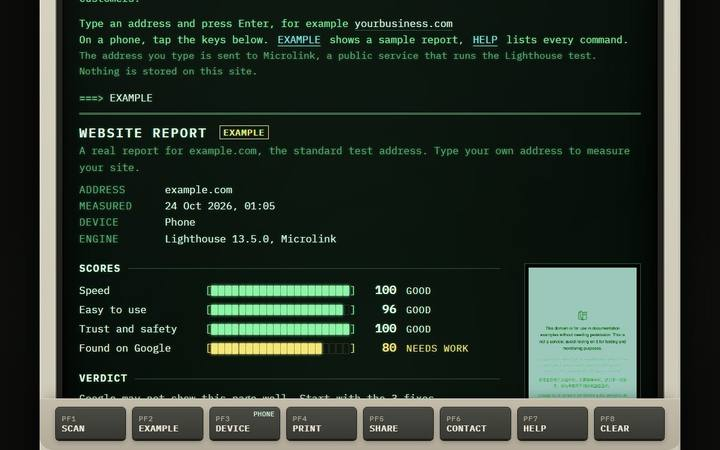
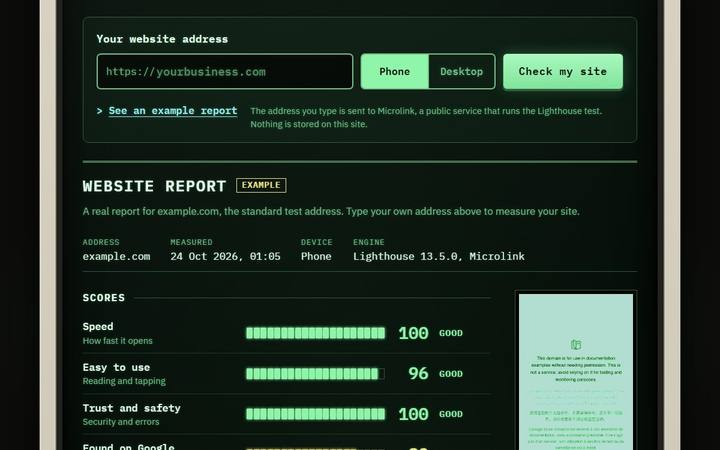
Font page: deeper old-machine look, one name box, order and examples buttons, stepped studio; refresh compressed covers

Changed region(s): [[0.0306, 0.0, 0.9472, 1.0]]

diff --git a/font/index.html b/font/index.html
@@ -163,49 +163,44 @@ h1 span{color:var(--muted)}
 .fileo a:hover{color:var(--ph);border-bottom-color:var(--ph)}
 .hnote{font:500 12px/1.5 var(--sys);letter-spacing:.06em;text-transform:uppercase;color:var(--muted);margin:22px 0 0}
 
-/* control deck */
-.deck{display:flex;flex-wrap:wrap;align-items:flex-end;gap:18px 26px;margin-top:20px;padding-top:18px;border-top:1px solid rgba(0,0,0,.16);box-shadow:inset 0 1px 0 rgba(255,255,255,.45)}
-.eng,.namebox label{display:block;font:400 10px/1 var(--pix);letter-spacing:.05em;text-transform:uppercase;color:var(--case-mute);text-shadow:0 1px 0 rgba(255,255,255,.45);margin:0 0 9px;white-space:nowrap}
-.namebox{flex:1 1 250px;min-width:0}
-.namebox input{display:block;width:100%;min-height:54px;border:0;border-radius:6px;background:#111211;box-shadow:inset 0 2px 5px rgba(0,0,0,.9),0 0 0 1px #3c3b37,0 1px 0 1px rgba(255,255,255,.45);padding:2px 14px 0;font:400 32px/1 var(--led);letter-spacing:.03em;color:var(--ph);caret-color:var(--ph);outline:0}
-.namebox input::placeholder{color:var(--ph-faint)}
-.namebox input:focus-visible{box-shadow:inset 0 2px 5px rgba(0,0,0,.9),0 0 0 1px #3c3b37,0 0 0 3px #1b1a18}
-.tools{display:flex;flex-wrap:wrap;gap:18px 22px}
-.grp{flex:0 0 auto;min-width:0}
-.keys{display:flex;gap:9px;padding-bottom:5px}
-.key{position:relative;min-width:62px;height:52px;padding:0 12px;display:inline-flex;flex-direction:column;align-items:center;justify-content:center;gap:6px;border:0;border-radius:6px;
-  background:linear-gradient(180deg,#f0eee8,#dddbd4);color:var(--case-ink);font:600 11.5px/1 var(--sys);letter-spacing:.06em;text-transform:uppercase;
-  box-shadow:inset 0 1px 0 #fff,inset 0 -4px 0 rgba(0,0,0,.07),0 4px 0 #8d8b84,0 5px 1px rgba(0,0,0,.28),0 8px 10px -3px rgba(0,0,0,.35);transition:transform .07s,box-shadow .07s}
-.key:hover{background:linear-gradient(180deg,#f6f5f0,#e3e1da)}
-.key:active{transform:translateY(3px);box-shadow:inset 0 1px 0 #fff,inset 0 -2px 0 rgba(0,0,0,.07),0 1px 0 #8d8b84,0 2px 2px rgba(0,0,0,.3)}
-.key.dk{background:linear-gradient(180deg,#5b5a55,#47463f);color:#f0efe9;box-shadow:inset 0 1px 0 rgba(255,255,255,.2),inset 0 -4px 0 rgba(0,0,0,.2),0 4px 0 #24231f,0 5px 1px rgba(0,0,0,.3),0 8px 10px -3px rgba(0,0,0,.4)}
-.key.dk:hover{background:linear-gradient(180deg,#64635d,#4f4e47)}
-.key.dk:active{box-shadow:inset 0 1px 0 rgba(255,255,255,.2),inset 0 -2px 0 rgba(0,0,0,.2),0 1px 0 #24231f,0 2px 2px rgba(0,0,0,.3)}
-.key svg{width:17px;height:17px}
-.nb i{display:block;width:24px;height:var(--h);background:currentColor;border-radius:2px}
-.nb::after{content:"";position:absolute;left:8px;top:7px;width:7px;height:3px;border-radius:1px;background:rgba(0,0,0,.14)}
-.nb[aria-checked=true]{transform:translateY(2px);background:linear-gradient(180deg,#e2e0d9,#cfcdc5);box-shadow:inset 0 1px 0 rgba(255,255,255,.7),inset 0 2px 5px rgba(0,0,0,.14),0 2px 0 #8d8b84,0 3px 2px rgba(0,0,0,.25)}
-.nb[aria-checked=true]::after{background:#1b1a18}
-.swr{display:flex;gap:8px;padding-bottom:2px}
-.sw{display:flex;flex-direction:column;align-items:center;gap:8px;border:0;background:transparent;padding:0 2px;min-width:58px;min-height:52px;color:var(--case-ink);font:600 11.5px/1 var(--sys);letter-spacing:.05em;text-transform:uppercase;white-space:nowrap}
-.sw .slot{position:relative;width:48px;height:26px;border-radius:13px;background:#1a1a18;box-shadow:inset 0 2px 4px rgba(0,0,0,.95),0 1px 0 rgba(255,255,255,.55)}
-.sw .slot::before{content:"";position:absolute;left:9px;top:10px;width:10px;height:6px;border-radius:1px;background:#3a3a36;transition:background .16s,box-shadow .16s}
-.sw .slot i{position:absolute;top:3px;left:3px;width:20px;height:20px;border-radius:50%;background:radial-gradient(circle at 36% 30%,#fdfcf8,#c4c2bb 62%,#8b8982);box-shadow:0 2px 3px rgba(0,0,0,.65);transition:transform .16s var(--ease)}
-.sw[aria-checked=true] .slot i{transform:translateX(22px)}
-.sw[aria-checked=true] .slot::before{background:var(--ph);box-shadow:0 0 7px rgba(232,230,218,.55)}
-.sw[disabled]{opacity:.45;cursor:not-allowed}
-.dialr{display:flex;align-items:center;gap:14px}
-.dial{position:relative;width:74px;height:74px;border-radius:50%;touch-action:none;cursor:grab;flex:0 0 auto}
-.dial.grab{cursor:grabbing}
-.dial .ticks{position:absolute;inset:0;border-radius:50%;background:repeating-conic-gradient(from -136deg,#3b3a36 0 2deg,transparent 2deg 27deg);
-  -webkit-mask:radial-gradient(circle,transparent 31px,#000 32px,#000 36px,transparent 37px),conic-gradient(from 135deg,transparent 0 90deg,#000 90deg);-webkit-mask-composite:source-in;
-  mask:radial-gradient(circle,transparent 31px,#000 32px,#000 36px,transparent 37px) intersect,conic-gradient(from 135deg,transparent 0 90deg,#000 90deg)}
-.dial::before{content:"";position:absolute;inset:10px;border-radius:50%;box-shadow:0 4px 0 #77756e,0 7px 10px rgba(0,0,0,.45)}
-.knob{position:absolute;inset:10px;border-radius:50%;transform:rotate(var(--a,0deg));transition:transform .08s;
-  background:radial-gradient(circle at 50% 50%,transparent 15px,rgba(0,0,0,.08) 16px,transparent 17px),repeating-conic-gradient(#d9d7d0 0 6deg,#b7b5ae 6deg 12deg);box-shadow:inset 0 1px 0 rgba(255,255,255,.8),inset 0 -2px 2px rgba(0,0,0,.2)}
-.knob::before{content:"";position:absolute;inset:7px;border-radius:50%;background:radial-gradient(circle at 42% 34%,#f6f5f0,#cfcdc6 60%,#aeaca5);box-shadow:inset 0 -1px 1px rgba(0,0,0,.25),0 1px 2px rgba(0,0,0,.25)}
-.knob i{position:absolute;left:50%;top:9px;width:4px;height:15px;margin-left:-2px;border-radius:2px;background:#1b1a18}
-.dv{display:block;font:400 28px/1 var(--led);color:var(--ph);background:#111211;padding:9px 12px 7px;border-radius:5px;box-shadow:inset 0 2px 4px rgba(0,0,0,.9),0 0 0 1px #3c3b37,0 1px 0 1px rgba(255,255,255,.45);min-width:92px;text-align:center;font-variant-numeric:tabular-nums}
+/* control deck: one name box, one pen slider, two buttons */
+.mach{margin-bottom:12px}
+.mach::before,.mach::after{content:"";position:absolute;bottom:10px;width:11px;height:11px;border-radius:50%;border:1px solid rgba(0,0,0,.35);background:linear-gradient(45deg,transparent 42%,rgba(0,0,0,.5) 43% 57%,transparent 58%),radial-gradient(circle at 40% 35%,#f1efe9,#a4a29a 75%);box-shadow:0 1px 0 rgba(255,255,255,.5)}
+.mach::before{left:9px}.mach::after{right:9px}
+.foot{position:absolute;bottom:-11px;width:12%;min-width:44px;height:11px;border-radius:0 0 6px 6px;background:linear-gradient(#2a2926,#121211);box-shadow:0 6px 10px -4px #000}
+.foot.l{left:7%}.foot.r{right:7%}
+.bezel{position:relative;padding-bottom:36px}
+.bezel::after{content:"HF-84";position:absolute;right:26px;bottom:11px;font:400 10px/1 var(--pix);letter-spacing:.08em;color:#55534d;text-shadow:0 1px 0 rgba(255,255,255,.5)}
+.bezel::before{content:"";position:absolute;left:26px;bottom:15px;width:min(220px,30%);height:3px;border-radius:2px;background:#9d9b93;box-shadow:inset 0 1px 1px rgba(0,0,0,.45),0 1px 0 rgba(255,255,255,.5)}
+.deck{display:grid;grid-template-columns:minmax(0,1fr) auto;grid-template-areas:"name cta" "pen hint";gap:18px 28px;align-items:end;margin-top:22px;padding-top:20px;border-top:1px solid rgba(0,0,0,.16);box-shadow:inset 0 1px 0 rgba(255,255,255,.45)}
+.namebox{grid-area:name;min-width:0}
+.namebox label{display:block;font:600 16px/1.2 var(--body);color:var(--case-ink);margin:0 0 9px}
+.namebox input{display:block;width:100%;min-height:64px;border:0;border-radius:8px;background:#111211;box-shadow:inset 0 3px 6px rgba(0,0,0,.9),0 0 0 1px #3c3b37,0 1px 0 1px rgba(255,255,255,.45);padding:0 18px;font:500 26px/1 var(--body);color:#f2f1ec;caret-color:#f2f1ec;outline:0}
+.namebox input::placeholder{color:#6d6c66}
+.namebox input:focus-visible{box-shadow:inset 0 3px 6px rgba(0,0,0,.9),0 0 0 1px #3c3b37,0 0 0 4px #1b1a18}
+.deck .cta{grid-area:cta;display:flex;flex-wrap:wrap;gap:12px;padding-bottom:4px}
+.deck .btn{min-height:64px;padding:0 26px;font-size:13px}
+.deck .btn.p{background:linear-gradient(180deg,#45443f,#2c2b28);color:#f4f3ee;box-shadow:inset 0 1px 0 rgba(255,255,255,.18),inset 0 -4px 0 rgba(0,0,0,.25),0 4px 0 #11110f,0 5px 1px rgba(0,0,0,.35),0 10px 14px -6px rgba(0,0,0,.5)}
+.deck .btn.p:hover{background:linear-gradient(180deg,#504f4a,#363531)}
+.deck .btn.p:active{transform:translateY(3px);box-shadow:inset 0 1px 0 rgba(255,255,255,.18),inset 0 -2px 0 rgba(0,0,0,.25),0 1px 0 #11110f,0 2px 2px rgba(0,0,0,.35)}
+.deck .btn.g{background:linear-gradient(180deg,#f2f0ea,#dddbd4);color:#1b1a18;box-shadow:inset 0 1px 0 #fff,inset 0 -4px 0 rgba(0,0,0,.07),0 4px 0 #8d8b84,0 5px 1px rgba(0,0,0,.25),0 10px 14px -6px rgba(0,0,0,.35)}
+.deck .btn.g:hover{background:linear-gradient(180deg,#f8f7f3,#e5e3dc)}
+.deck .btn.g:active{transform:translateY(3px);box-shadow:inset 0 1px 0 #fff,0 1px 0 #8d8b84,0 2px 2px rgba(0,0,0,.25)}
+.penr{grid-area:pen;display:flex;align-items:center;gap:16px;min-width:0}
+.penr label{font:600 16px/1.2 var(--body);color:var(--case-ink);white-space:nowrap}
+.penr input{flex:1 1 auto;max-width:300px;min-width:0}
+.penr output{font:400 24px/1 var(--led);color:var(--ph);background:#111211;padding:7px 10px 5px;border-radius:5px;box-shadow:inset 0 2px 4px rgba(0,0,0,.9),0 0 0 1px #3c3b37,0 1px 0 1px rgba(255,255,255,.45);min-width:84px;text-align:center;font-variant-numeric:tabular-nums}
+.dhint{grid-area:hint;margin:0;font-size:16px;line-height:1.5;color:#45433e;text-align:right;max-width:30em;justify-self:end}
+input[type=range].fd,.penr input,.wt input{-webkit-appearance:none;appearance:none;background:transparent;height:44px;cursor:pointer}
+.penr input::-webkit-slider-runnable-track{height:8px;border-radius:4px;background:#1a1a18;box-shadow:inset 0 1px 2px rgba(0,0,0,.9),0 1px 0 rgba(255,255,255,.5)}
+.penr input::-webkit-slider-thumb{-webkit-appearance:none;width:26px;height:38px;margin-top:-15px;border-radius:4px;border:0;background:linear-gradient(#1b1a18,#1b1a18) 50% 50%/14px 2px no-repeat,linear-gradient(180deg,#46453f,#2a2926);box-shadow:inset 0 1px 0 rgba(255,255,255,.2),0 3px 0 #11110f,0 5px 7px rgba(0,0,0,.45)}
+.penr input::-moz-range-track{height:8px;border-radius:4px;background:#1a1a18}
+.penr input::-moz-range-thumb{width:26px;height:38px;border-radius:4px;border:0;background:linear-gradient(180deg,#46453f,#2a2926);box-shadow:0 3px 0 #11110f}
+@media (max-width:860px){
+  .deck{grid-template-columns:minmax(0,1fr);grid-template-areas:"name" "pen" "cta" "hint"}
+  .deck .cta .btn{flex:1 1 220px}
+  .dhint{text-align:left;justify-self:start}
+}
 
 @media (max-width:980px){
   .desk2{grid-template-columns:minmax(0,1fr)}
@@ -573,6 +568,81 @@ footer a{color:var(--tx);display:inline-flex;align-items:center;min-height:44px}
 .ch:hover b,.ch:hover span,.ch:hover .ar{color:var(--case-ink)}
 footer{font:500 12.5px/1.5 var(--sys)}
 @media (max-width:640px){.tt{padding:0 34px}.tt::before{left:10px}.tt::after{right:10px}.faq summary{font-size:17.5px}}
+/* simpler pass: every section is a unit of the same machine */
+.obar{display:inline-flex;align-items:center;min-height:38px;padding:0 14px;margin-left:12px;border-radius:5px;text-decoration:none;font:600 12px/1 var(--sys);letter-spacing:.08em;text-transform:uppercase;background:linear-gradient(180deg,#e9e7e0,#cfcdc6);color:#1b1a18;box-shadow:inset 0 1px 0 #fff,0 3px 0 #77756e,0 4px 4px rgba(0,0,0,.4);white-space:nowrap}
+.obar:hover{background:linear-gradient(180deg,#f4f3ee,#dad8d1)}
+.obar:active{transform:translateY(2px);box-shadow:inset 0 1px 0 #fff,0 1px 0 #77756e}
+@media (max-width:900px){.obar{margin-left:auto}.clk{margin-left:12px}}
+@media (max-width:380px){.clk{display:none}}
+.win{border:8px solid #bdbbb3;border-top:0;box-shadow:inset 0 0 0 1px #000,0 1px 0 rgba(255,255,255,.08),0 3px 0 #5f5d58,0 40px 80px -40px #000}
+.win>.tt{padding-left:44px;padding-right:44px;height:38px}
+.win>.tt::before{left:16px;top:13px}.win>.tt::after{right:16px;top:13px}
+.ex .tt{order:-1}
+.contact .win{border-color:#2b2a27;box-shadow:inset 0 0 0 1px #000,0 3px 0 #11110f,0 30px 60px -30px rgba(0,0,0,.6)}
+h1,.stx h2,.head h2,.contact h2{font-family:var(--body);font-weight:600;letter-spacing:-.025em}
+h1{font-size:clamp(38px,5.6vw,80px);line-height:1}
+.sl b{font-family:var(--body);font-weight:600;letter-spacing:-.01em}
+.step{font:600 17px/1.35 var(--body);letter-spacing:0;text-transform:none;color:var(--hi);margin:0 0 14px}
+.step i{min-width:28px;height:28px;font:400 21px/1 var(--led);border-radius:4px}
+.step.s2{margin-top:28px}
+.left .fld{margin-bottom:6px;max-width:360px}
+.left .wt{margin-top:18px;max-width:300px}
+.hint{margin:0 0 16px}
+.wt input::-webkit-slider-runnable-track{background:#050505}
+.note a{color:var(--hi);text-underline-offset:3px}
+.steps{list-style:none;margin:0;padding:14px 18px;display:grid;grid-template-columns:repeat(4,minmax(0,1fr));gap:10px;background:#0d0e0d;border-bottom:1px solid #000;counter-reset:none}
+.steps li{display:flex;align-items:center;gap:11px;min-width:0;padding:10px 12px;border-radius:6px;background:#181918;box-shadow:inset 0 1px 0 rgba(255,255,255,.04),0 0 0 1px #000;font:600 16px/1.2 var(--body);color:#8c8b85;transition:color .2s,box-shadow .2s}
+.steps li span{min-width:0;overflow:hidden;text-overflow:ellipsis;white-space:nowrap}
+.steps li i{flex:0 0 auto;width:28px;height:28px;display:grid;place-items:center;border-radius:4px;font:400 21px/1 var(--led);font-style:normal;background:#2c2c29;color:#9c9b92}
+.steps li.done{color:#d4d3cd}
+.steps li.done i{background:var(--case);color:var(--case-ink)}
+.steps li.now{color:var(--hi);box-shadow:inset 0 0 0 1px rgba(232,230,218,.55),0 0 0 1px #000}
+.steps li.now i{background:var(--ph);color:var(--scr)}
+.plan .pr{display:inline-block;align-self:flex-start;padding:12px 16px 6px;border-radius:6px;background:var(--scr);color:var(--ph);box-shadow:inset 0 2px 6px rgba(0,0,0,.95),0 0 0 1px #2c2c29,0 1px 0 1px rgba(255,255,255,.06);font-size:76px}
+.plan .pr small{color:var(--ph-dim)}
+.plan .btn{min-height:58px}
+.contact{background:linear-gradient(180deg,#d1cfc8,#bbb9b1);color:var(--case-ink);border-top:4px solid #2b2a27;box-shadow:inset 0 1px 0 rgba(255,255,255,.5)}
+.contact h2{color:#1b1a18}
+.contact h2 em{color:#5c5a54}
+.contact p{color:#3b3a36}
+.contact .kick{color:#45433e}
+.contact .ch:hover{background:var(--case)}
+footer{background:#121211}
+.hero{padding:30px 0 44px}
+.hrow{grid-template-columns:minmax(0,1fr);gap:12px;margin-bottom:26px}
+.eyebrow{margin-bottom:12px}
+h1{font-size:clamp(36px,4.4vw,62px);line-height:1.04}
+.hside p{margin:0;max-width:46em}
+.page{height:auto;min-height:clamp(220px,30vh,380px)}
+.eyebrow{display:none}
+.stg li{padding:10px 0}
+@media (min-width:1000px){h1 br{display:none}}
+.proc .cells,.stg .pb{display:none}
+.stg li{padding:7px 0}
+.proc h2{padding-top:14px;padding-bottom:10px}
+.fileo{padding-top:10px;padding-bottom:12px}
+.cap{height:46px;margin-bottom:14px}
+.bezel{padding-top:16px;padding-left:16px;padding-right:16px}
+@media (min-width:641px) and (max-height:820px){.hside{display:none}.hrow{margin-bottom:20px}}
+@media (min-width:641px) and (max-width:999px){.proc .stg,.proc .fileo{display:none}}
+.penr output{white-space:nowrap}
+@media (max-width:380px){.penr{gap:10px}.penr output{min-width:0;font-size:21px;padding:6px 8px 4px}}
+.steps li.done i{font-size:0}.steps li.done i::after{content:"\2713";font:700 16px/1 var(--body)}
+@media (max-width:640px){
+  .hrow{display:block;margin-bottom:22px}.hside{margin-top:14px}.hside p{margin:0;font-size:17.5px}
+  .proc .cells,.proc .stg{display:none}
+  .eyebrow{display:none}.proc .fileo{display:none}.hrow{display:contents}.hside{order:3;margin-top:26px}.hh{margin-bottom:20px}
+  .page{height:clamp(200px,30vh,240px)}
+  .bezel{padding-bottom:26px}.bezel::before,.bezel::after{bottom:9px}.bezel::before{left:14px}.bezel::after{right:14px}
+  h1{font-size:34px}
+  .stg li{padding:6px 0}
+  .win{border-width:0 6px 6px}.win>.tt{padding:0 34px}.win>.tt::before{left:12px}.win>.tt::after{right:12px}
+  #try .win{margin:0 -6px;border-left-width:6px;border-right-width:6px}
+  .steps{grid-template-columns:1fr 1fr;padding:12px;gap:8px}
+  .steps li{font-size:15px;padding:9px 10px}
+  .station{margin:0}
+}
+
 @media (prefers-reduced-motion:reduce){*,*::before,*::after{animation:none!important;transition:none!important}.sweep{display:none}}
 </style>
 <script>document.documentElement.classList.add("js")</script>
@@ -581,15 +651,15 @@ footer{font:500 12.5px/1.5 var(--sys)}
 <header class="bar"><div class="wrap">
   <a class="logo" href="../" aria-label="SanderSax"><i class="mk" aria-hidden="true"></i><span class="lw" aria-hidden="true">SANDERSAX</span></a>
   <nav class="nav" aria-label="Sections" data-t-aria="navL"><a href="#try" data-t="nTry">Try it</a><a href="#how" data-t="nHow">How it works</a><a href="#uses" data-t="nUse">Examples</a><a href="#prices" data-t="nPrice">Prices</a><a href="#contact" data-t="nContact">Contact</a></nav>
+  <a class="obar" href="#prices" data-t="oBar">Order</a>
   <span class="clk" id="clk" aria-hidden="true">00:00</span>
   <div class="lang" role="group" aria-label="Language / Язык"><button type="button" data-l="en" aria-pressed="true">EN</button><button type="button" data-l="ru" aria-pressed="false">RU</button></div>
 </div></header>
 
 <section class="hero" id="hero"><div class="wrap">
   <div class="hrow">
-    <div class="hh"><p class="eyebrow" data-t="eyebrow">Handwriting font · Latin and Cyrillic</p><h1 data-t="h1">Your handwriting,<br><span>as a real font.</span></h1></div>
-    <div class="hside"><p data-t="hside">Type a name. A pen writes it, then the machine reads the strokes and builds them into a font file. Your own font is made from one sheet you fill in by hand.</p>
-      <div class="cta"><a class="btn p" href="#try" data-t="ctaTry">Draw your letters</a><a class="btn g" href="#prices" data-t="ctaPrice">Order the full font</a></div></div>
+    <div class="hh"><p class="eyebrow" data-t="eyebrow">Handwriting font · Latin and Cyrillic</p><h1 data-t="h1">Your handwriting, <br><span>as a real font.</span></h1></div>
+    <div class="hside"><p data-t="hside">Type your name and the machine writes it by hand, then builds the letters into a font file. Your own full font is made from one sheet you fill in with a pen.</p></div>
   </div>
   <div class="mach station">
     <div class="cap">
@@ -621,34 +691,13 @@ footer{font:500 12.5px/1.5 var(--sys)}
     </div>
     </div></div>
     <div class="deck">
-      <div class="namebox"><label for="nameIn" data-t="nameL">Name</label><input id="nameIn" type="text" maxlength="14" autocomplete="off" spellcheck="false" placeholder="Sander" data-t-ph="namePh"></div>
-      <div class="tools">
-        <div class="grp"><span class="eng" aria-hidden="true" data-t="nibT">Nib</span>
-        <div class="seg keys" role="radiogroup" aria-label="Pen weight" data-t-aria="nibL">
-          <button type="button" class="nb key" role="radio" aria-checked="false" data-nib=".042" aria-label="Fine" data-t-aria="nibF" style="--h:2px"><i></i><span data-t="nibF2">Fine</span></button>
-          <button type="button" class="nb key" role="radio" aria-checked="true" data-nib=".062" aria-label="Medium" data-t-aria="nibM" style="--h:4px"><i></i><span data-t="nibM2">Med</span></button>
-          <button type="button" class="nb key" role="radio" aria-checked="false" data-nib=".088" aria-label="Broad" data-t-aria="nibB" style="--h:6px"><i></i><span data-t="nibB2">Broad</span></button>
-        </div></div>
-        <div class="grp"><span class="eng" aria-hidden="true" data-t="keyT">Feed</span>
-        <div class="keys">
-          <button type="button" class="key dk" id="replay"><svg viewBox="0 0 24 24" aria-hidden="true"><path fill="none" stroke="currentColor" stroke-width="2" stroke-linecap="square" d="M4 12a8 8 0 1 0 2.4-5.7M4 4v4.5h4.5"/></svg><span data-t="replayK">Again</span></button>
-          <button type="button" class="key dk" id="next"><svg viewBox="0 0 24 24" aria-hidden="true"><path fill="none" stroke="currentColor" stroke-width="2" stroke-linecap="square" d="M5 12h13m-5-5 5 5-5 5"/></svg><span data-t="nextK">Next</span></button>
-        </div></div>
-      </div>
-      <div class="grp sws"><span class="eng" aria-hidden="true" data-t="swT2">Screen</span>
-        <div class="swr">
-          <button type="button" class="sw" role="switch" aria-checked="true" id="tGuide"><span class="slot" aria-hidden="true"><i></i></span><span data-t="tGuide">Guides</span></button>
-          <button type="button" class="sw" role="switch" aria-checked="true" id="tBloom"><span class="slot" aria-hidden="true"><i></i></span><span data-t="tBloom">Glow</span></button>
-          <button type="button" class="sw" role="switch" aria-checked="true" id="tAuto"><span class="slot" aria-hidden="true"><i></i></span><span data-t="tAuto">Auto feed</span></button>
-        </div>
-      </div>
-      <div class="grp dialw"><span class="eng" aria-hidden="true" data-t="dialT">Pen size</span>
-        <div class="dialr"><div class="dial" id="dial" role="slider" tabindex="0" aria-label="Pen size" data-t-aria="dialL" aria-valuemin="3" aria-valuemax="11" aria-valuenow="6"><span class="ticks" aria-hidden="true"></span><span class="knob" aria-hidden="true"><i></i></span></div>
-        <output class="dv" id="dialV" for="dial">0.6 mm</output></div>
-      </div>
+      <div class="namebox"><label for="nameIn" data-t="nameL">Type your name</label><input id="nameIn" type="text" maxlength="14" autocomplete="off" spellcheck="false" placeholder="Sander" data-t-ph="namePh"></div>
+      <div class="cta"><a class="btn p" href="#prices" data-t="ctaPrice">Order your font, from $39</a><a class="btn g" href="#uses" data-t="ctaEx">See examples</a></div>
+      <div class="penr"><label for="penSize" data-t="penL">Pen size</label><input type="range" id="penSize" min="30" max="110" step="2" value="62"><output id="penV" for="penSize">0.62 mm</output></div>
+      <p class="dhint" data-t="hnote">A sample hand writes your name live. Your font will look like you.</p>
     </div>
+    <span class="foot l" aria-hidden="true"></span><span class="foot r" aria-hidden="true"></span>
   </div>
-  <p class="hnote" data-t="hnote">A sample hand, written live. Your font will look like you.</p>
 </div></section>
 
 <section class="story" id="how">
@@ -680,23 +729,28 @@ footer{font:500 12.5px/1.5 var(--sys)}
   <div class="head"><div><p class="kick"><b>03</b><span data-t="kTry">Font studio</span></p><h2 data-t="trH">Now draw <em>your own</em></h2></div><p data-t="trP">Draw a few letters with a mouse, finger or stylus. The page turns them into a real font file you can install, and the pen at the top starts writing with them.</p></div>
   <div class="win">
     <div class="tt"><span data-t="stuT">Font studio · my-handwriting.otf</span></div>
+    <ol class="steps" id="steps">
+      <li data-s="1"><i>1</i><span data-t="sp1">Choose letters</span></li>
+      <li data-s="2"><i>2</i><span data-t="sp2">Draw them</span></li>
+      <li data-s="3"><i>3</i><span data-t="sp3">Try typing</span></li>
+      <li data-s="4"><i>&#8595;</i><span data-t="sp4">Download</span></li>
+    </ol>
     <div class="sheet">
       <div class="left">
-        <p class="step"><i>1</i><span data-t="s1">Draw each letter</span></p>
-        <div class="row">
-          <div class="fld"><label for="letters" data-t="lettersL">Letters to draw</label><input type="text" id="letters" value="Sax" maxlength="40" autocomplete="off" spellcheck="false"></div>
-          <div class="fld wt"><label for="weight" data-t="weightL">Pen</label><input type="range" id="weight" min="14" max="64" value="30"></div>
-        </div>
+        <p class="step"><i>1</i><span data-t="s1">Choose the letters you want to draw</span></p>
+        <div class="fld"><label for="letters" data-t="lettersL">Letters</label><input type="text" id="letters" value="Sax" maxlength="40" autocomplete="off" spellcheck="false"></div>
+        <p class="step s2"><i>2</i><span data-t="s2">Draw each letter in its box</span></p>
+        <p class="hint" id="hint" data-t="hint">A sample is drawn first. <b>Press &#215; to clear a box</b>, then draw with a mouse, finger or stylus. Sit the letter on the solid line.</p>
         <div class="pads" id="pads"></div>
-        <p class="hint" id="hint" data-t="hint">The pen draws a sample first. <b>Press × and draw your own</b> with a mouse, finger or stylus. Sit the letters on the solid line.</p>
+        <div class="fld wt"><label for="weight" data-t="weightL">Pen thickness</label><input type="range" id="weight" min="14" max="64" value="30"></div>
       </div>
       <div class="right">
-        <p class="step" style="margin:0"><i>2</i><span data-t="s2">Type with it</span></p>
+        <p class="step" style="margin:0"><i>3</i><span data-t="s3">Type anything with your letters</span></p>
         <div class="live" id="live"><textarea class="out lit" id="out" rows="2" spellcheck="false" aria-label="Type with your font" data-t-aria="outL">Sax</textarea></div>
         <div class="sizes" id="sizes" aria-hidden="true"><div style="font-size:40px"><small>40 PT</small><span class="sz"></span></div><div style="font-size:24px"><small>24 PT</small><span class="sz"></span></div><div style="font-size:15px"><small>15 PT</small><span class="sz"></span></div></div>
-        <p class="step" style="margin:6px 0 0"><i>3</i><span data-t="s3">Take it with you</span></p>
+        <p class="step" style="margin:6px 0 0"><i>&#8595;</i><span data-t="s4">Download and install it</span></p>
         <div class="dl"><button type="button" class="btn k" id="dl" disabled><svg viewBox="0 0 24 24" aria-hidden="true"><path fill="none" stroke="currentColor" stroke-width="2" stroke-linecap="square" d="M12 4v11m-5-5 5 5 5-5M5 20h14"/></svg><span data-t="dl">Download my font (.otf)</span></button><span class="meta" id="meta"></span></div>
-        <p class="note" data-t="note">This quick font has only the letters you drew. The full font has every letter, digit and sign in Latin and Cyrillic, made from your real pen on paper.</p>
+        <p class="note" data-t="note">This quick font has only the letters you drew. The full font has every letter, digit and sign in Latin and Cyrillic, made from your real pen on paper. <a href="#prices">See prices</a></p>
       </div>
     </div>
   </div>
@@ -765,23 +819,23 @@ var BH=52;
 /* ---------- language ---------- */
 var T={en:{},ru:{
 navL:"Разделы",nTry:"Попробовать",nHow:"Как это работает",nUse:"Примеры",nPrice:"Цены",nContact:"Контакты",eyebrow:"Шрифт из почерка · латиница и кириллица",
-h1:"Ваш почерк,<br><span>как настоящий шрифт.</span>",hside:"Напишите имя. Перо выведет его, а машина прочитает штрихи и соберёт из них файл шрифта. Ваш собственный шрифт делается из одного листа, заполненного от руки.",
-winT:"Почерк в шрифт",nameL:"Имя",namePh:"Мария",replayL:"Написать ещё раз",nibL:"Толщина пера",nibT:"Перо",nibF:"Тонкое",nibM:"Среднее",nibB:"Широкое",
-nibF2:"Тонк.",nibM2:"Сред.",nibB2:"Шир.",keyT:"Подача",replayK:"Ещё раз",nextK:"Дальше",swT2:"Экран",tGuide:"Линии",tBloom:"Свечение",tAuto:"Автоподача",dialT:"Размер пера",dialL:"Размер пера",
+h1:"Ваш почерк, <br><span>как настоящий шрифт.</span>",hside:"Напишите имя, и машина выведет его от руки, а потом соберёт буквы в файл шрифта. Ваш полный шрифт делается из одного листа, заполненного ручкой.",
+winT:"Почерк в шрифт",nameL:"Напишите своё имя",namePh:"Мария",replayL:"Написать ещё раз",nibL:"Толщина пера",nibT:"Перо",nibF:"Тонкое",nibM:"Среднее",nibB:"Широкое",
+penL:"Размер пера",ctaEx:"Смотреть примеры",sp1:"Выберите буквы",sp2:"Нарисуйте",sp3:"Попробуйте",sp4:"Скачайте",s4:"Скачайте и установите",noteA:"Смотреть цены",oBar:"Заказать",
 mCap:"Загл.",mX:"Строчн.",mBase:"Линия",mDesc:"Низ",swT:"Чтение",
 procL:"Процесс",procT:"Процесс",pr1:"Чтение скана",pr2:"Штрихи",pr3:"Сборка знаков",pr4:"Экспорт шрифта",procGo:"Нарисовать свои буквы →",
-hnote:"Пример почерка, пишется вживую. Ваш шрифт будет похож на вас.",
-ctaTry:"Нарисовать буквы",ctaPrice:"Заказать полный шрифт",
+hnote:"Образец почерка пишет ваше имя вживую. Ваш шрифт будет похож на вас.",
+ctaTry:"Нарисовать буквы",ctaPrice:"Заказать шрифт, от $39",
 stK:"Как делается полный шрифт",stH:"От одного листа до <em>настоящего шрифта</em>",
 st1h:"Распечатайте лист",st1p:"Три страницы A4, клетка для каждой буквы, цифры и знака. Печатайте в масштабе 100%.",
 st2h:"Заполните и сфотографируйте",st2p:"Одна буква в клетке, на линии, чёрным фломастером. Сфотографируйте каждую страницу ровно, при дневном свете, и пришлите фото.",
 st3h:"Получите шрифт",st3p:"Через два дня вы получите файлы шрифта, страницу с образцом и помощь с установкой. Подпись можно поставить на отдельную клавишу.",
 st1a:"Скачать лист (PDF) →",scT:"Лист в шрифт",sheetHead:"Шрифт из почерка",saveT:"Сохранить шрифт",fileMeta:"Латиница и кириллица · 166 знаков",
 studioL:"Студия шрифта",kTry:"Студия шрифта",stuT:"Студия шрифта · my-handwriting.otf",trH:"Теперь нарисуйте <em>свои</em>",trP:"Нарисуйте несколько букв мышью, пальцем или стилусом. Страница превратит их в настоящий файл шрифта, который можно установить, и перо вверху начнёт писать ими.",
-s1:"Нарисуйте каждую букву",lettersL:"Какие буквы рисовать",weightL:"Перо",
-hint:"Сначала перо рисует пример. <b>Нажмите × и нарисуйте свою</b> мышью, пальцем или стилусом. Ставьте буквы на сплошную линию.",
-s2:"Пишите им",outL:"Напишите текст своим шрифтом",s3:"Заберите с собой",dl:"Скачать мой шрифт (.otf)",
-note:"В этом быстром шрифте только нарисованные буквы. Полный шрифт содержит все буквы, цифры и знаки на латинице и кириллице, с вашей настоящей ручки на бумаге.",
+s1:"Выберите буквы, которые хотите нарисовать",lettersL:"Буквы",weightL:"Толщина пера",
+hint:"Сначала рисуется пример. <b>Нажмите × чтобы очистить клетку</b>, и рисуйте мышью, пальцем или стилусом. Ставьте букву на сплошную линию.",
+s2:"Нарисуйте каждую букву в своей клетке",outL:"Напишите текст своим шрифтом",s3:"Напишите что угодно своими буквами",dl:"Скачать мой шрифт (.otf)",
+note:"В этом быстром шрифте только нарисованные буквы. Полный шрифт содержит все буквы, цифры и знаки на латинице и кириллице, с вашей настоящей ручки на бумаге. <a href=\"#prices\">Смотреть цены</a>",
 kUse:"Примеры",useH:"Куда идёт <em>ваша рука</em>",useP:"Во всех примерах имя, которое вы написали вверху. Нарисуйте буквы в студии, и они заменят образец почерка.",
 g1:"На экранах",g1p:"Приложение, сообщение, письмо и пост.",g2:"В жизни",g2p:"Открытка, этикетка, упаковка, вывеска и страница.",
 eA0:"Дневник",eA1:"Доброе утро,",eA2:"Позвонить в типографию",eA3:"Отправить фото листа",eA4:"Забрать рамки",eA5:"Заметка",eA6:"Золотое тиснение на этикетке?",c1:"Экран приложения",
@@ -1015,40 +1069,12 @@ window.__proc=proc;
     size();if(state==="done"||reduce)write(cur,false);else write(cur)},160)});
   var tm=0;inp.addEventListener("input",function(){touched=!!inp.value.trim();clearTimeout(tm);clearTimeout(cycleT);tm=setTimeout(function(){write(current())},380)});
   inp.addEventListener("keydown",function(e){if(e.key==="Enter"){e.preventDefault();clearTimeout(tm);write(current())}});
-  $("#replay").addEventListener("click",function(){write(current())});
-  $("#next").addEventListener("click",function(){inp.value="";touched=false;clearTimeout(tm);idx++;pageNo++;write(current())});
-  document.querySelectorAll(".nb").forEach(function(b){b.addEventListener("click",function(){setNib(b)});b.addEventListener("keydown",radioKeys)});
-  function setNib(b,quiet){setK(+b.dataset.nib||.062,quiet)}
-  /* pen size: one value shared by the nib keys and the dial */
-  var dial=$("#dial"),dialV=$("#dialV"),KMIN=.03,KMAX=.11;
-  function setK(k,quiet){nibK=clamp(Math.round(k*1000)/1000,KMIN,KMAX);
-    document.querySelectorAll(".nb").forEach(function(x){x.setAttribute("aria-checked",String(Math.abs(+x.dataset.nib-nibK)<.0015))});
-    var u=(nibK-KMIN)/(KMAX-KMIN);dial.style.setProperty("--a",(-135+270*u).toFixed(1)+"deg");
-    var mm=(nibK*10).toFixed(2).replace(/0$/,"");dial.setAttribute("aria-valuenow",(nibK*100).toFixed(1));dial.setAttribute("aria-valuetext",mm+" mm");dialV.textContent=mm+" mm";
+  /* pen size: one plain slider under the name box */
+  var pen=$("#penSize"),penV=$("#penV"),KMIN=.03,KMAX=.11,auto=!reduce;
+  function setK(k,quiet){nibK=clamp(Math.round(k*1000)/1000,KMIN,KMAX);pen.value=Math.round(nibK*1000);
+    var mm=(nibK*10).toFixed(2).replace(/0$/,"");pen.setAttribute("aria-valuetext",mm+" mm");penV.textContent=mm+" mm";
     if(!quiet){try{localStorage.setItem("hw-nib",String(nibK))}catch(e){}}if(S.length){widths();redraw()}}
-  dial.setAttribute("aria-valuemin","3");dial.setAttribute("aria-valuemax","11");
-  dial.addEventListener("keydown",function(e){var s={ArrowUp:.002,ArrowRight:.002,ArrowDown:-.002,ArrowLeft:-.002,PageUp:.01,PageDown:-.01}[e.key];
-    if(e.key==="Home"){e.preventDefault();setK(KMIN);return}if(e.key==="End"){e.preventDefault();setK(KMAX);return}if(s){e.preventDefault();setK(nibK+s)}});
-  (function(){var drag=false;
-    function at(e){var r=dial.getBoundingClientRect(),a=Math.atan2(e.clientX-(r.left+r.width/2),-(e.clientY-(r.top+r.height/2)))*180/Math.PI;
-      setK(KMIN+(clamp(a,-135,135)+135)/270*(KMAX-KMIN))}
-    dial.addEventListener("pointerdown",function(e){drag=true;try{dial.setPointerCapture(e.pointerId)}catch(_){}dial.classList.add("grab");at(e);e.preventDefault()});
-    dial.addEventListener("pointermove",function(e){if(drag)at(e)});
-    function up(){drag=false;dial.classList.remove("grab")}
-    dial.addEventListener("pointerup",up);dial.addEventListener("pointercancel",up);
-    dial.addEventListener("wheel",function(e){e.preventDefault();setK(nibK+(e.deltaY<0?.002:-.002))},{passive:false})})();
-  /* screen switches */
-  var auto=!reduce;
-  function sw(id,on,fn){var b=$(id);b.setAttribute("aria-checked",String(on));b.addEventListener("click",function(){var v=b.getAttribute("aria-checked")!=="true";b.setAttribute("aria-checked",String(v));fn(v)})}
-  sw("#tGuide",true,function(v){page.classList.toggle("noguide",!v)});
-  sw("#tBloom",true,function(v){page.classList.toggle("nobloom",!v)});
-  sw("#tAuto",auto,function(v){auto=v;clearTimeout(cycleT);if(v&&state==="done"&&!reduce){touched=false;cycleT=setTimeout(turn,1600)}});
-  function radioKeys(e){var g=Array.from(e.currentTarget.parentNode.querySelectorAll("[role=radio]")),i=g.indexOf(e.currentTarget),d=e.key==="ArrowRight"||e.key==="ArrowDown"?1:e.key==="ArrowLeft"||e.key==="ArrowUp"?-1:0;
-    if(!d)return;e.preventDefault();var n=g[(i+d+g.length)%g.length];n.focus();n.click()}
-  /* roving focus: only the checked radio is in the tab order */
-  function roving(){document.querySelectorAll(".seg").forEach(function(s){var rs=s.querySelectorAll("[role=radio]"),any=false;rs.forEach(function(b){var on=b.getAttribute("aria-checked")==="true";any=any||on;b.tabIndex=on?0:-1});if(!any&&rs[0])rs[0].tabIndex=0})}
-  new MutationObserver(roving).observe(document.querySelector(".tools"),{subtree:true,attributes:true,attributeFilter:["aria-checked"]});roving();
-  if(reduce){$("#tAuto").disabled=true}
+  pen.addEventListener("input",function(){setK(+pen.value/1000)});
   setK(.062,true);
   try{var sn=+localStorage.getItem("hw-nib");if(sn>=KMIN&&sn<=KMAX)setK(sn,true)}catch(e){}
   return {
@@ -1227,7 +1253,11 @@ function build(){
     hero.own(own?fam:null);updateMeta();
   }).catch(function(e){meta.textContent=String(e).slice(0,80)});
 }
-function updateMeta(){if(!meta)return;meta.textContent=fontBuf?U[lang].ready(glyphCount,Math.max(1,Math.round(fontBuf.byteLength/1024))):U[lang].none;
+var dlDone=false;
+function stepBar(){var own=pads.some(function(p){var st=store[p.ch];return st&&st.strokes.length&&!st.sample});
+  var done=[chars().length>0,own,outTouched,dlDone],now=done.indexOf(false);
+  document.querySelectorAll("#steps li").forEach(function(li,i){li.classList.toggle("done",done[i]);li.classList.toggle("now",i===now)})}
+function updateMeta(){if(!meta)return;stepBar();meta.textContent=fontBuf?U[lang].ready(glyphCount,Math.max(1,Math.round(fontBuf.byteLength/1024))):U[lang].none;
   var t=out.value.split("\n")[0]||lettersIn.value;document.querySelectorAll("#sizes .sz").forEach(function(s){s.textContent=(drawnOnly(t)+" ").repeat(6)})}
 
 /* letters not drawn yet become spaces, the built font only holds what was drawn */
@@ -1246,7 +1276,7 @@ weightIn.addEventListener("input",function(){pads.forEach(drawPad);rebuild()});
 out.addEventListener("input",function(){outTouched=true;updateMeta()});
 
 dlBtn.addEventListener("click",function(){
-  if(!fontBuf)return;var url=URL.createObjectURL(new Blob([fontBuf],{type:"font/otf"})),a=document.createElement("a");
+  if(!fontBuf)return;dlDone=true;stepBar();var url=URL.createObjectURL(new Blob([fontBuf],{type:"font/otf"})),a=document.createElement("a");
   a.href=url;a.download="my-handwriting.otf";document.body.appendChild(a);a.click();a.remove();setTimeout(function(){URL.revokeObjectURL(url)},4000);
   if(reduce)return;var r=dlBtn.getBoundingClientRect(),b=document.createElement("div");b.className="burst";b.style.left=(r.left+r.width/2)+"px";b.style.top=(r.top+r.height/2)+"px";
   for(var i=0;i<12;i++){var s=document.createElement("i");s.style.setProperty("--a",(i/12*360)+"deg");s.style.setProperty("--d",(44+(i%3)*12)+"px");b.appendChild(s)}
